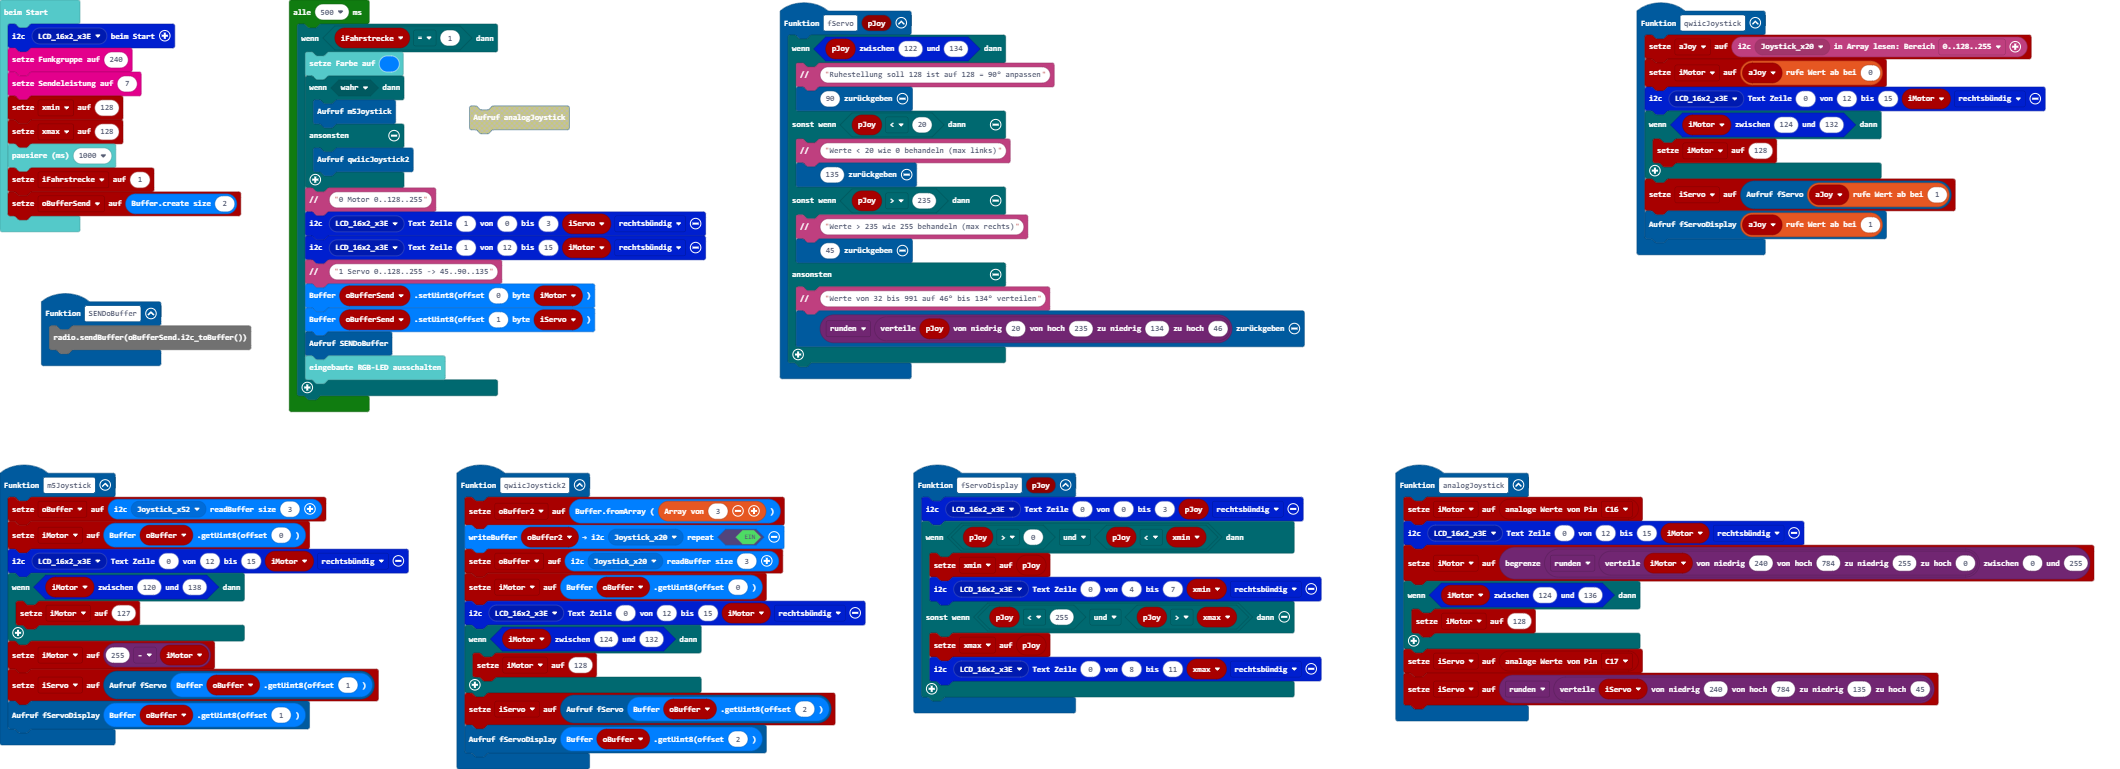
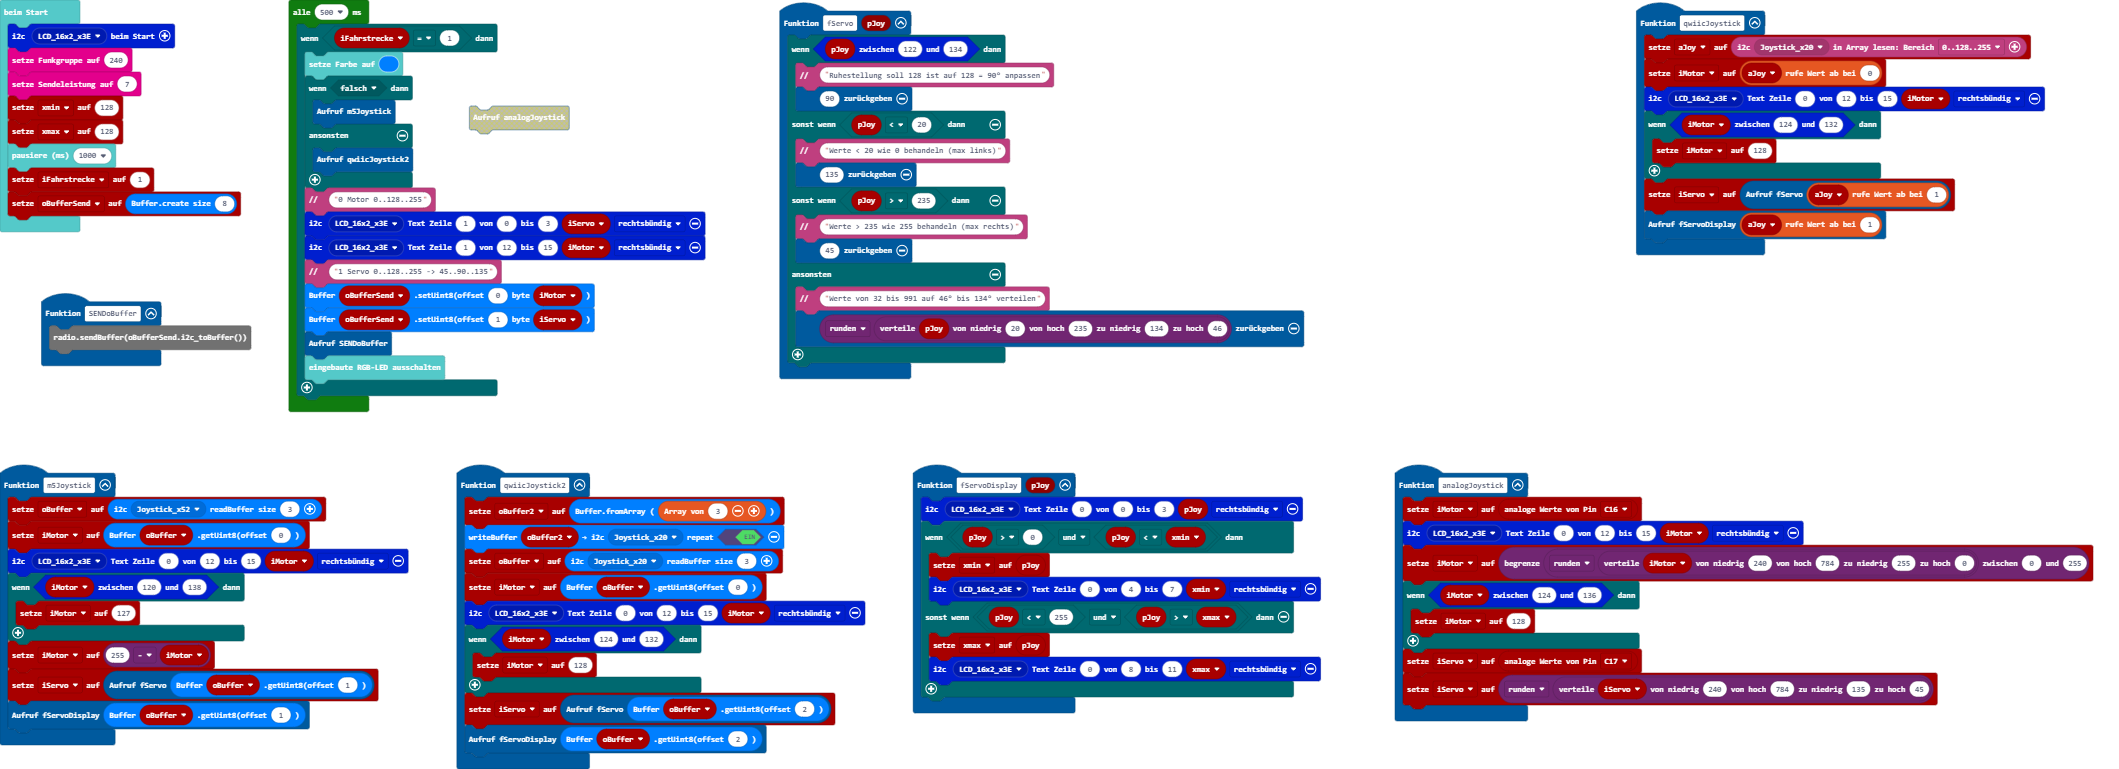
Aktualisiere main.blocks, main.ts

diff --git a/main.ts b/main.ts
@@ -83,11 +83,11 @@ xmin = 128
 xmax = 128
 basic.pause(1000)
 let iFahrstrecke = 1
-let oBufferSend = i2c.create(2)
+let oBufferSend = i2c.create(8)
 loops.everyInterval(500, function () {
     if (iFahrstrecke == 1) {
         basic.setLedColor(0x007fff)
-        if (true) {
+        if (false) {
             m5Joystick()
         } else {
             qwiicJoystick2()
